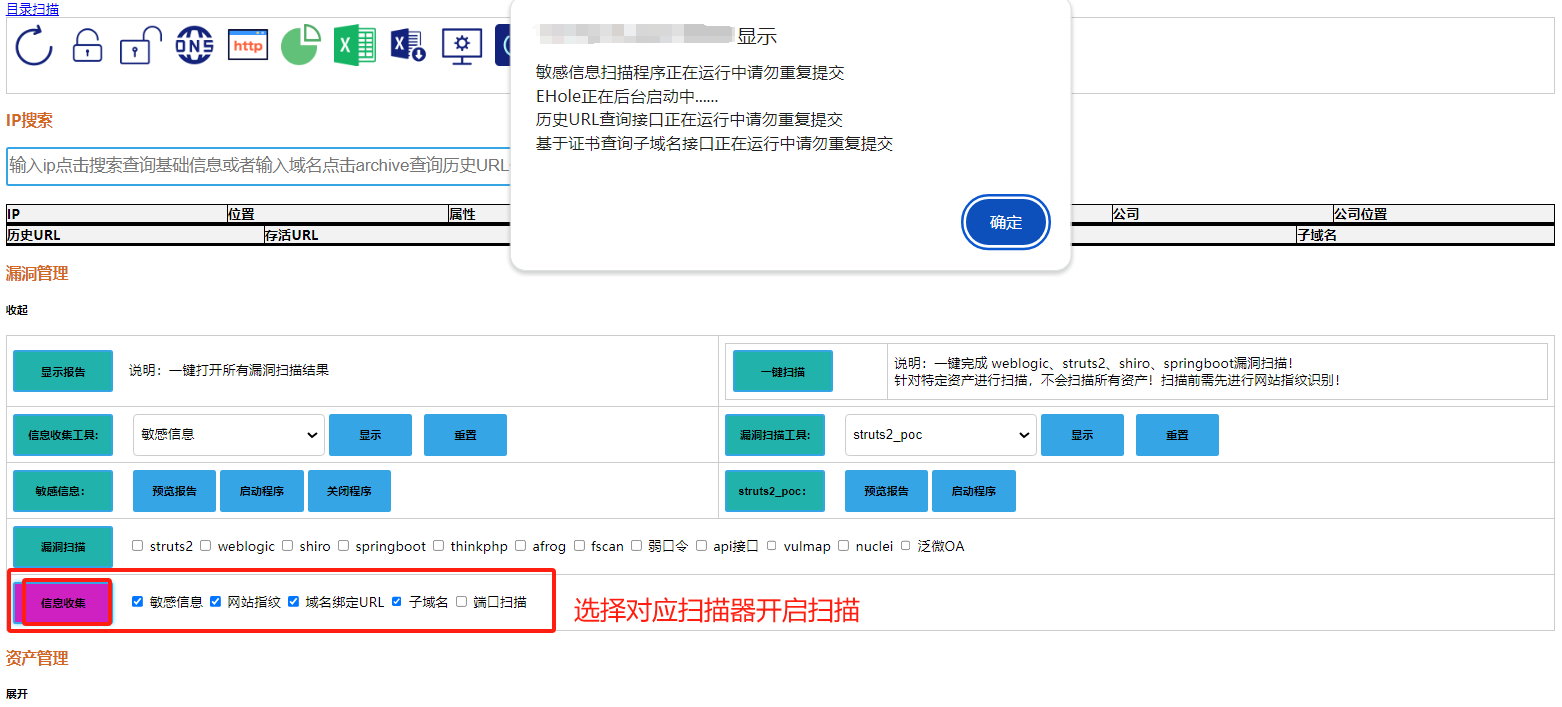
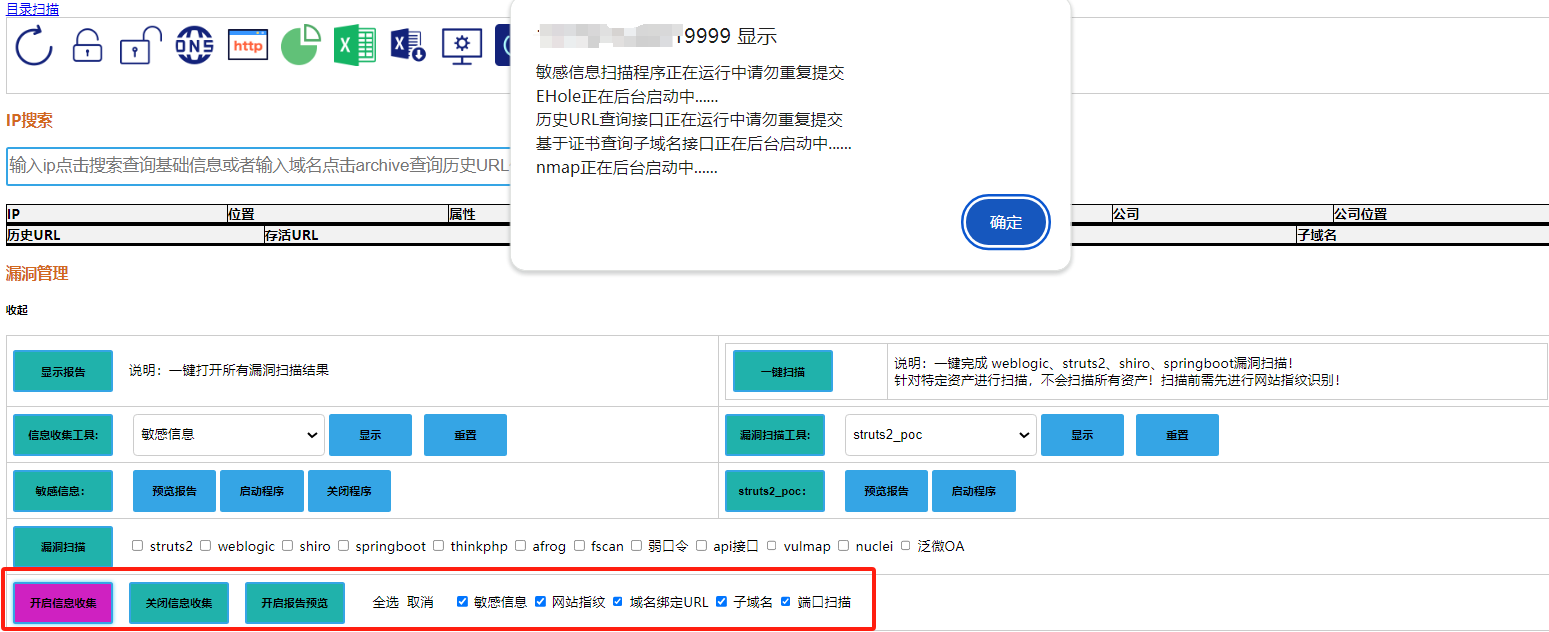
新增通过复选框批量关闭信息收集工具和报告预览功能、复选框全选和取消功能

diff --git a/static/js/common.js b/static/js/common.js
@@ -443,6 +443,10 @@ function startbutton() {
     button72.disabled = false;
     var button73 = document.getElementById("button73");
     button73.disabled = false;
+    var button74 = document.getElementById("button74");
+    button74.disabled = false;
+    var button75 = document.getElementById("button75");
+    button75.disabled = false;
 }
 
 //禁用按钮
@@ -581,6 +585,10 @@ function stopbutton() {
     button72.disabled = true;
     var button73 = document.getElementById("button73");
     button73.disabled = true;
+    var button74 = document.getElementById("button74");
+    button74.disabled = true;
+    var button75 = document.getElementById("button75");
+    button75.disabled = true;
 }
 
 
@@ -2515,7 +2523,7 @@ function vulnxuanzhongscan(){
 
 
 
-// 信息收集集合选中扫描
+// 信息收集集合复选框选中开启扫描
 function infoxuanzhongscan(){
 
     const checkboxes = document.querySelectorAll('input[name="info_option"]:checked');
@@ -2548,4 +2556,91 @@ function infoxuanzhongscan(){
 
         }
     })
+}
+
+// 信息收集集合复选框选中报告预览
+function infoxuanzhongreportyulan(){
+
+    const checkboxes = document.querySelectorAll('input[name="info_option"]:checked');
+    const info_front_list = [];
+
+    if (checkboxes.length === 0) {
+        alert('请至少选择一个选项');
+        return;
+    }
+
+    checkboxes.forEach((checkbox) => {
+        info_front_list.push(checkbox.value);
+    });
+    
+    // 遍历列表并判断然后跳转到对应的报告
+    for (let i = 0; i < info_front_list.length; i++){
+        if (info_front_list[i] == '1'){
+            window.open("/showbbscanreport/", "_blank");
+        }else if (info_front_list[i] == '2'){
+            window.open("/ehole_finger_report/", "_blank");
+        }else if (info_front_list[i] == '3'){
+            window.open("/previewhistoryurl/", "_blank");
+        }else if (info_front_list[i] == '4'){
+            window.open("/showsubdomainreport/", "_blank");
+        }else if (info_front_list[i] == '5'){
+            window.open("/nmapresultshow/", "_blank");
+        }
+    }
+}
+
+// 信息收集集合复选框选中关闭扫描
+function infoxuanzhongstopscanfunc(){
+    const checkboxes = document.querySelectorAll('input[name="info_option"]:checked');
+    const info_front_list = [];
+
+    if (checkboxes.length === 0) {
+        alert('请至少选择一个选项');
+        return;
+    }
+
+    checkboxes.forEach((checkbox) => {
+        info_front_list.push(checkbox.value);
+    });
+
+    $.ajax({
+        url: '/stop_infoscan_back/',
+        method: 'POST',
+        data: JSON.stringify({ info_front_list: info_front_list }), // 发送 JSON 字符串
+        contentType: 'application/json', // 告诉服务器发送的数据是 JSON 格式
+        dataType: 'json', // 期望服务器返回的数据类型
+        // data: JSON.stringify({ info_front_list: info_front_list }),
+        success: function (info) {
+            alert(info.dictkey11+"\n"+info.dictkey21+"\n"+info.dictkey31+"\n"+info.dictkey41+"\n"+info.dictkey51)
+        },
+
+        error: function (info) {
+            alert("内部出错")
+        },
+        complete: function () {
+
+        }
+    })
+}
+
+
+// 信息收集复选框全选和反选
+function selectAll() {
+    // 获取所有具有相同名称的复选框
+    var checkboxes = document.querySelectorAll('input[name="info_option"]');
+    
+    // 遍历所有复选框，并设置为选中状态
+    for (var i = 0; i < checkboxes.length; i++) {
+        checkboxes[i].checked = true;
+    }
+}
+
+function unSelection() {
+    // 获取所有具有相同名称的复选框
+    var checkboxes = document.querySelectorAll('input[name="info_option"]');
+    
+    // 遍历所有复选框，并取反选中状态
+    for (var i = 0; i < checkboxes.length; i++) {
+        checkboxes[i].checked = !checkboxes[i].checked;
+    }
 }

diff --git a/templates/index.html b/templates/index.html
@@ -66,7 +66,7 @@
 				<span id="tishisp8" style="display: none; color: chocolate;">报告下载</span>
 				<span id="tishisp9" style="display: none; color: chocolate;">系统管理</span>
 				<span id="tishisp9a" style="display: none; color: chocolate;">注销系统</span>
-				<span id="tishisp9b" style="display: none; color: chocolate;">软重启系统</span>
+				<span id="tishisp9b" style="display: none; color: chocolate;">系统变更代码软重启服务</span>
 				<span id="tishisp9c" style="display: none; color: chocolate;">关闭后端服务</span>
 			</td>
 		</tr>
@@ -424,7 +424,8 @@
 			<table border="1">
 				<tr>
 					<td>
-						<input type="submit" id="button64" value="显示报告" onclick="one_click_preview_all_report_finc()" disabled>&nbsp;&nbsp;&nbsp;
+						<input type="submit" id="button64" value="显示报告" onclick="one_click_preview_all_report_finc()"
+							disabled>&nbsp;&nbsp;&nbsp;
 						说明：一键打开所有漏洞扫描结果
 					</td>
 
@@ -716,7 +717,8 @@
 
 				<tr>
 					<td colspan="2">
-						<input type="submit" id="button72" value="漏洞扫描" onclick="vulnxuanzhongscan()" disabled>&nbsp;&nbsp;&nbsp;
+						<input type="submit" id="button72" value="漏洞扫描" onclick="vulnxuanzhongscan()"
+							disabled>&nbsp;&nbsp;&nbsp;
 						<input type="checkbox" id="option1" name="option" value="1">
 						<label for="option1">struts2</label>
 						<input type="checkbox" id="option2" name="option" value="2">
@@ -746,7 +748,15 @@
 
 				<tr>
 					<td colspan="2">
-						<input type="submit" id="button73" value="信息收集" onclick="infoxuanzhongscan()" disabled>&nbsp;&nbsp;&nbsp;
+						<input type="submit" id="button73" value="开启信息收集" onclick="infoxuanzhongscan()"
+							disabled>&nbsp;&nbsp;&nbsp;
+						<input type="submit" id="button75" value="关闭信息收集" onclick="infoxuanzhongstopscanfunc()"
+							disabled>&nbsp;&nbsp;&nbsp;
+						<input type="submit" id="button74" value="开启报告预览" onclick="infoxuanzhongreportyulan()"
+							disabled>&nbsp;&nbsp;&nbsp;
+						&nbsp;&nbsp;
+						<span style="cursor: pointer;" onclick="selectAll()">全选</span>&nbsp;&nbsp;<span
+								style="cursor: pointer;" onclick="unSelection()">取消</span>&nbsp;&nbsp;&nbsp;&nbsp;
 						<input type="checkbox" id="infooption1" name="info_option" value="1">
 						<label for="infooption1">敏感信息</label>
 						<input type="checkbox" id="infooption2" name="info_option" value="2">

diff --git a/scan_main_web.py b/scan_main_web.py
@@ -51,6 +51,10 @@ import pymysql
 # 设置session过期时间
 from datetime import timedelta
 
+
+# 导入线程模块
+import threading
+
 app = Flask(__name__,template_folder='./templates') 
 app.secret_key = "DragonFire"
 bootstrap = Bootstrap(app)
@@ -1162,8 +1166,12 @@ def startbatchnmapscan():
         else:
 
             try:
-    
-                basic.ip_queue_nmap()
+                # 创建线程来运行nmap任务
+                nmap_thread = threading.Thread(target=basic.ip_queue_nmap())
+
+                # 启动线程
+                nmap_thread.start()
+                
                 if "running" in namptatus:
                     nmap_status_result = "nmap已开启稍后查看结果"
                 else:
@@ -1281,7 +1289,7 @@ def killafrogprocess():
     
 
 
-#结束nmap进程
+#关闭nmap进程
 @app.route("/killnmapprocess/")
 def killnmapprocess():
     user = session.get('username')
@@ -2255,11 +2263,13 @@ def killweavervulnscan():
 
 
 
-# 前端复选框批量调用信息收集工具接口
+# 前端复选框批量开启信息收集工具接口
 @app.route("/infoscan_check_back/",methods=['post'])
 def infoscan_check_back():
     user = session.get('username')
     if str(user) == main_username:
+        # 漏洞扫描器时间线更新
+        basic.vuln_scan_status_update('已完成开启批量信息收集')
         data = request.get_json()  # 使用 get_json 解析 JSON 请求体
         info_front_list = data['info_front_list']
         # 接收前端传入的值转为int型
@@ -2326,6 +2336,9 @@ def infoscan_check_back():
                     except Exception as e:
                         print("捕获到异常:", e)
             elif '5' in str(j):
+                # 每次启动前清空上次扫描结果
+                os.popen('rm -rf /TIP/info_scan/result/nmap.txt')
+                os.popen('touch /TIP/info_scan/result/nmap.txt')
                 namptatus = os.popen('bash ./finger.sh nmapstatus').read()
                 if "running" in namptatus:
                     nmap_status_result = "nmap正在运行中请勿重复提交"
@@ -2333,8 +2346,13 @@ def infoscan_check_back():
                 else:
         
                     try:
-            
-                        basic.ip_queue_nmap()
+                        
+                        # 创建线程来运行nmap任务
+                        nmap_thread = threading.Thread(target=basic.ip_queue_nmap())
+
+                        # 启动线程
+                        nmap_thread.start()
+
                         if "running" in namptatus:
                             nmap_status_result = "nmap已开启稍后查看结果"
                         else:
@@ -2386,6 +2404,103 @@ def infoscan_check_back():
     else:
         return render_template('login.html')
 
+
+
+# 前端复选框批量关闭信息收集工具接口
+@app.route("/stop_infoscan_back/",methods=['post'])
+def stop_infoscan_back():
+    user = session.get('username')
+    if str(user) == main_username:
+        # 漏洞扫描器时间线更新
+        basic.vuln_scan_status_update('已完成关闭批量信息收集')
+        data = request.get_json()  # 使用 get_json 解析 JSON 请求体
+        info_front_list = data['info_front_list']
+        # 接收前端传入的值转为int型
+        info_value_list = []
+        for i in info_front_list:
+            info_value_list.append(int(i))
+
+        # 遍历列表判断关闭哪个扫描器
+        for j in info_value_list:
+            if '1' in str(j):
+                bbscanstatus = os.popen('bash ./finger.sh bbscan_status').read()
+                os.popen('bash ./finger.sh killbbscan')
+                if "stop" in bbscanstatus:
+                    kill_bbscan_result = "已关闭bbscan扫描程序"
+                else:
+                    kill_bbscan_result = "正在关闭中......"
+            elif '2' in str(j):
+                os.popen('bash ./finger.sh killEHole')
+                EHolestatus = os.popen('bash ./finger.sh ehole_status').read()
+                if "stop" in EHolestatus:
+                    kill_EHole_result = "已关闭EHole扫描程序"
+                else:
+                    kill_EHole_result = "正在关闭中......"
+            elif '3' in str(j):
+                otx_domain_url_shell_status = os.popen('bash ./finger.sh otx_domain_url_shell_status').read()
+                os.popen('bash ./finger.sh kill_otx_domain_url_shell')
+                if "stop" in otx_domain_url_shell_status:
+                    kill_otx_url_result = "已关闭历史URL查询接口"
+                else:
+                    kill_otx_url_result = "正在关闭中......"
+            elif '4' in str(j):
+                crt_subdomain_shell_status = os.popen('bash ./finger.sh crt_subdomain_shell_status').read()
+                os.popen('bash ./finger.sh kill_crt_subdomain_shell')
+                if "stop" in crt_subdomain_shell_status:
+                    kill_crt_subdomain_result = "已关闭历史URL查询接口"
+                else:
+                    kill_crt_subdomain_result = "正在关闭中......"
+            elif '5' in str(j):
+                nmapstatus =os.popen('bash ./finger.sh nmapstatus').read()
+                os.popen('bash ./finger.sh killnmap')
+                if "stop" in nmapstatus:
+                    kill_nmap_result = "已关闭nmap扫描程序"
+                else:
+                    kill_nmap_result = "正在关闭中......"
+            else:
+                print("参数正在完善中...")
+
+        try:
+            kill_bbscan_result1 = kill_bbscan_result
+        except:
+            kill_bbscan_result1 = ""
+        try:
+            kill_EHole_result1 = kill_EHole_result
+        except:
+            kill_EHole_result1 = ""
+
+        try:
+            kill_otx_url_result1 = kill_otx_url_result
+        except:
+            kill_otx_url_result1 = ""
+        try:
+            kill_crt_subdomain_result1 = kill_crt_subdomain_result
+        except:
+            kill_crt_subdomain_result1 = ""
+        try:
+            kill_nmap_result1 = kill_nmap_result
+        except:
+            kill_nmap_result1 = ""
+        
+        dict = {
+            "key11":kill_bbscan_result1,
+            "key21":kill_EHole_result1,
+            "key31":kill_otx_url_result1,
+            "key41":kill_crt_subdomain_result1,
+            "key51":kill_nmap_result1
+        }
+        message_json = {
+            "dictkey11":dict['key11'],
+            "dictkey21":dict['key21'],
+            "dictkey31":dict['key31'],
+            "dictkey41":dict['key41'],
+            "dictkey51":dict['key51'],
+        }
+
+        return jsonify(message_json)
+    
+    else:
+        return render_template('login.html')
 
 
 if __name__ == '__main__':  

diff --git a/readme.md b/readme.md
@@ -73,4 +73,3 @@
 <img src="https://raw.githubusercontent.com/huan-cdm/info_scan/main/images/tools_assemble.png" /><br>
 选择扫描器一键完成扫描<br>
 <img src="https://raw.githubusercontent.com/huan-cdm/info_scan/main/images/checkinfoscan.png" /><br>
-##### 信息扫描类工具已开发完毕，漏洞扫描类只完成前端功能，后端正在开发中......
